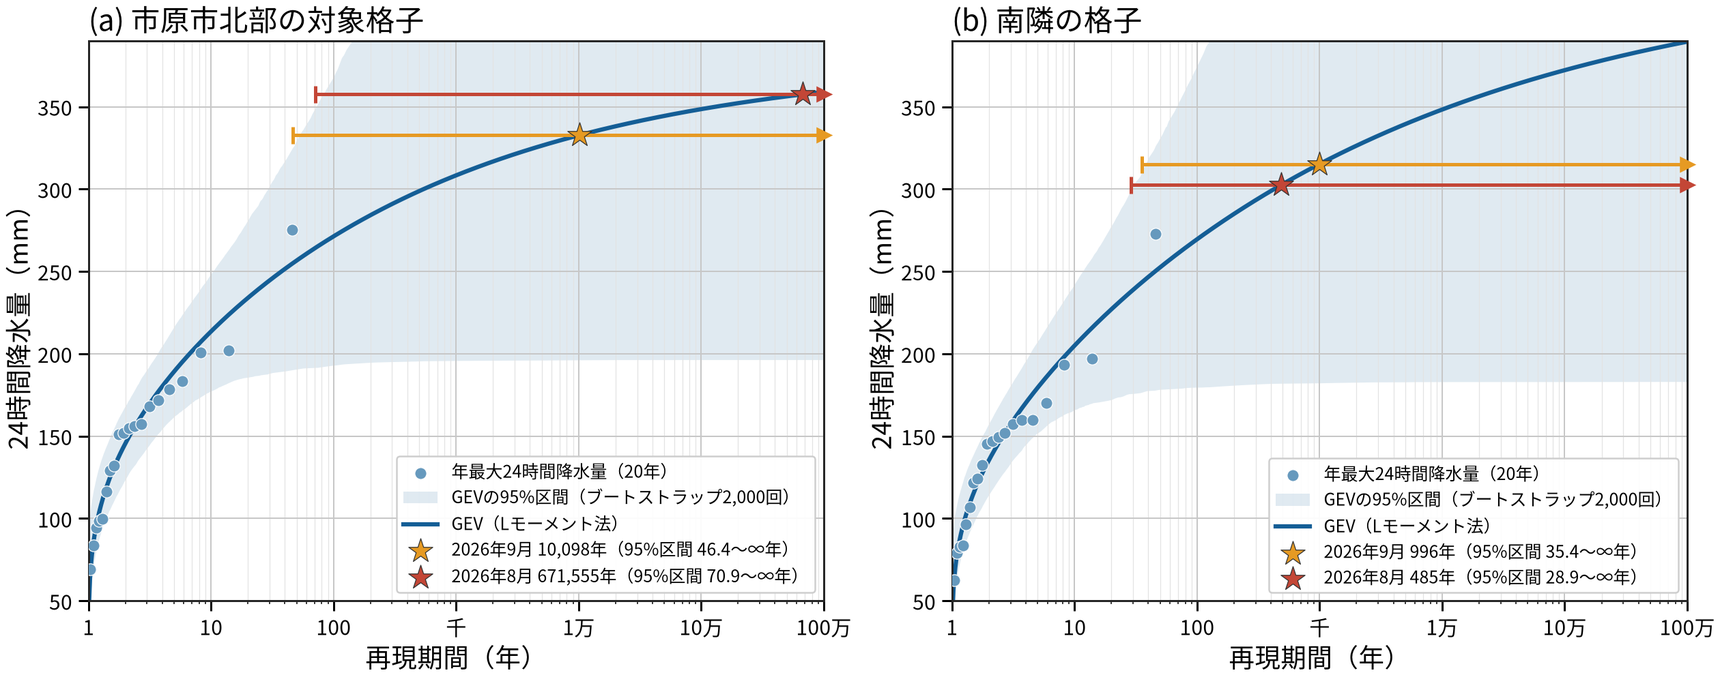
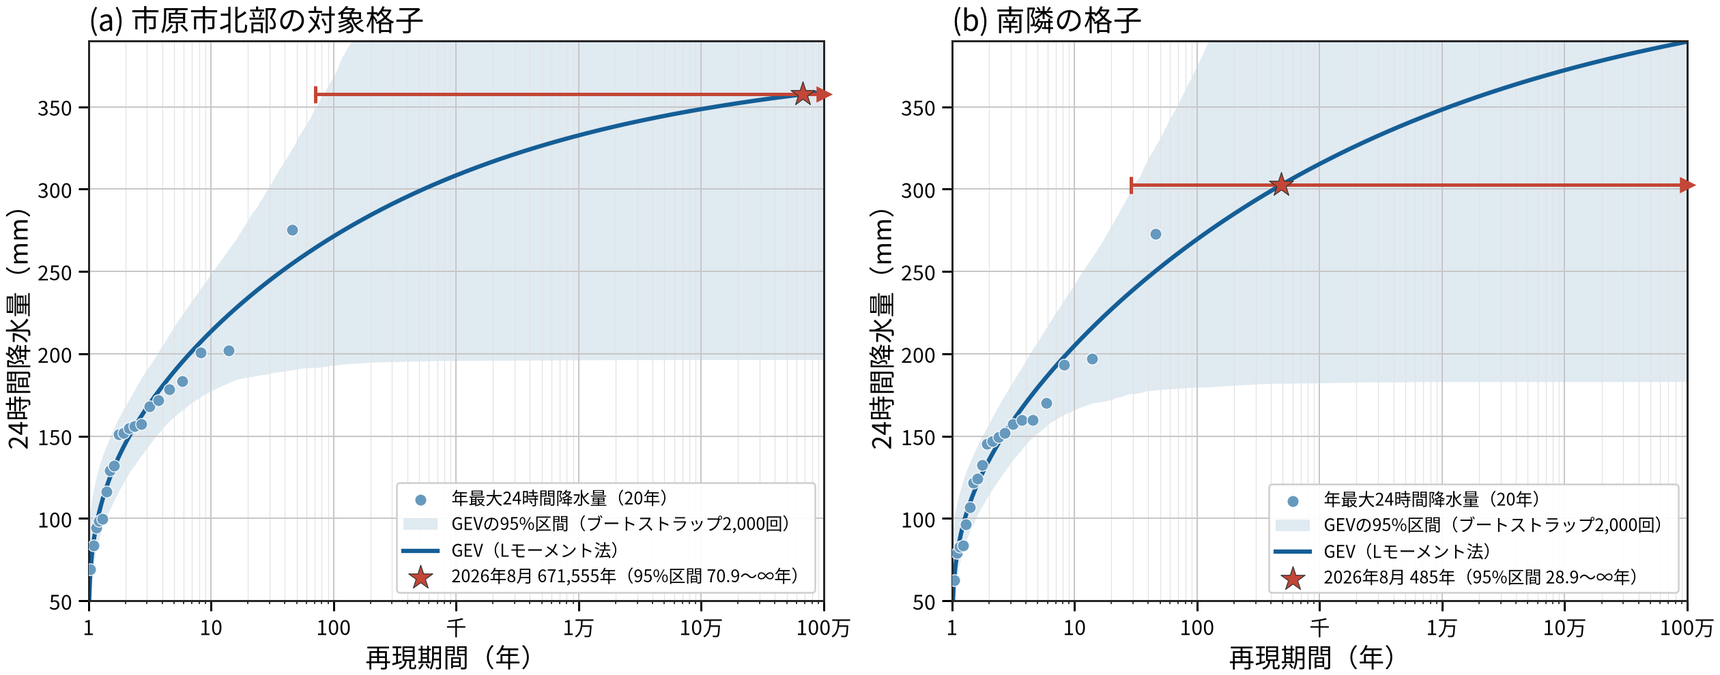
内容を千葉豪雨のみ対象に

diff --git a/src/chiba_heavy_rain/ichihara_gev_diagnostic.py b/src/chiba_heavy_rain/ichihara_gev_diagnostic.py
@@ -63,7 +63,6 @@ def _format_period(value: float) -> str:
 
 def main() -> None:
     august = DATA_DIR / "nusdas_2006_2025_event_2026.nc"
-    september = DATA_DIR / "nusdas_2006_2025_event_20260919_20260922.nc"
     plt.rcParams.update(
         {
             "font.family": "sans-serif",
@@ -83,17 +82,13 @@ def main() -> None:
         strict=True,
     ):
         annual, august_rain, saved_august = _read_cell(august, target_lat)
-        annual_september, september_rain, saved_september = _read_cell(september, target_lat)
-        if not np.array_equal(annual, annual_september) or not np.isfinite(annual).all():
-            raise ValueError("the two events do not share 20 complete annual maxima")
+        if not np.isfinite(annual).all():
+            raise ValueError("the cell does not have 20 complete annual maxima")
         fit = fit_gev(annual)
         august_period = return_period(august_rain, fit)
-        september_period = return_period(september_rain, fit)
         for saved, calculated in (
             (saved_august["shape_xi"], fit.shape_xi),
-            (saved_september["shape_xi"], fit.shape_xi),
             (saved_august["return_period_years"], august_period),
-            (saved_september["return_period_years"], september_period),
         ):
             if not np.isclose(saved, calculated, rtol=1e-4, atol=1e-5):
                 raise ValueError(f"saved fit differs from recalculation: {saved} vs {calculated}")
@@ -149,12 +144,11 @@ def main() -> None:
             [1, 10, 100, 1000, 10000, 100000, 1000000],
             labels=["1", "10", "100", "千", "1万", "10万", "100万"],
         )
-        summaries.append((fit.shape_xi, august_period, september_period))
+        summaries.append((fit.shape_xi, august_period))
         # A negative shape gives a finite GEV upper endpoint.
         upper_bound = fit.location - fit.scale / fit.shape_xi if fit.shape_xi < 0 else np.inf
         x_max = ax.get_xlim()[1]
         for event, month, rain, period, color in (
-            ("2026-09-19_2026-09-22", "9月", september_rain, september_period, "#e69a23"),
             ("2026-08-13_2026-08-15", "8月", august_rain, august_period, "#c34636"),
         ):
             interval = bootstrap_return_period(annual, rain, BOOTSTRAP_SAMPLES, BOOTSTRAP_SEED)
@@ -210,12 +204,12 @@ def main() -> None:
     caption = (
         "# 市原市北部の対象格子と南隣格子におけるGEVフィットの比較\n\n"
         "(a) の格子中心は東経140.10625°、北緯35.5375°。"
-        "(b) は南隣の東経140.10625°、北緯35.52917°で、隣接8格子のうち両事例とも"
-        "再現期間が最長（8月約485年、9月約996年）。青点は2006–2025年の年最大24時間降水量を"
+        "(b) は南隣の東経140.10625°、北緯35.52917°で、隣接8格子のうち"
+        "再現期間が最長（約485年）。青点は2006–2025年の年最大24時間降水量を"
         "昇順に並べ、report.md図1と同じGringortenプロット位置 "
         "`(n+0.12)/(n-rank+0.44)` に置いた値。青線は同じ20値にLモーメント法で当てはめた"
         "定常GEV分布の再現水準、薄青の帯は20値を復元抽出して2,000回再推定したブートストラップの"
-        "95%区間。星は推定に使っていない2026年の事例値で、横線はその再現期間の95%区間"
+        "95%区間。星は推定に使っていない2026年8月13～15日の事例値で、横線はその再現期間の95%区間"
         "（右端の矢印は上限が∞）。"
         "横軸は推定再現期間まで対数軸を延ばした。"
         "GEV形状母数 ξ は (a) −0.183、(b) −0.140。20年の標本から長い再現期間へ外挿した点推定であり、"
@@ -225,11 +219,9 @@ def main() -> None:
     with OUTPUT.with_suffix(".csv").open("w", newline="", encoding="utf-8") as stream:
         writer = csv.DictWriter(stream, fieldnames=list(rows[0]))
         writer.writeheader()
-        writer.writerows(sorted(rows, key=lambda row: (row["cell"] != "target", row["event"])))
-    for title, (xi, august_period, september_period) in zip(
-        ("target", "south neighbor"), summaries, strict=True
-    ):
-        print(f"{title}: xi={xi:.6f}, August={august_period:.1f}, September={september_period:.1f}")
+        writer.writerows(rows)
+    for title, (xi, august_period) in zip(("target", "south neighbor"), summaries, strict=True):
+        print(f"{title}: xi={xi:.6f}, August={august_period:.1f}")
     for row in rows:
         print(
             f"{row['cell']} {row['event']}: upper={row['upper_bound_mm']:.1f} mm, "

diff --git a/results/report2.md b/results/report2.md
@@ -1,10 +1,10 @@
-# 解析雨量を用いた令和8年8月千葉豪雨と令和8年9月の台風第25号による大雨の再現期間の計算
+# 解析雨量を用いた令和8年8月千葉豪雨の再現期間の計算
 
 ## はじめに
 
 [前回の記事](report.md)では、『千葉県で500mm超の記録的大雨「過去ならほぼ起こり得ない規模」の発生確率が温暖化で2倍以上に』で示された再現期間について、アメダスの地上観測を用いて検討した。そこでは、2026年8月13～15日の千葉豪雨の最大24時間降水量について、千葉アメダスでは約300年という再現期間が得られた。一方、元記事の再現期間はアメダスから推定した値より大きい傾向にあり、その一因として日降水量と24時間降水量の時間定義の不整合を挙げた。
 
-ただし、元記事が評価対象としているのは面的な解析雨量であり、前回はオープンデータとして入手できるアメダスを用いていた。今回は、解析雨量を用いて、年最大24時間降水量を求めて格子ごとに極値分布を当てはめ、8月の千葉豪雨の再現期間を面的に計算した。さらに、2026年9月19～22日に台風第25号の影響で千葉県に大雨がもたらされたことから、この事例についても同じ方法で再現期間を計算した。
+ただし、元記事が評価対象としているのは面的な解析雨量であり、前回はオープンデータとして入手できるアメダスを用いていた。今回は、解析雨量を用いて、年最大24時間降水量を求めて格子ごとに極値分布を当てはめ、8月の千葉豪雨の再現期間を面的に計算した。
 
 ## データと手法
 
@@ -14,13 +14,13 @@
 
 2006年1月～2025年12月の20年間について、各格子で連続する24時間分の1時間降水量を1時間ずつずらしながら積算し、年最大24時間降水量を求めた。24時間の値は、連続する24個の1時間降水量がすべてそろう場合にのみ計算した。2006年は1月1日から2月中旬を中心に計673時間分のデータが得られなかったが、有効な24時間の値が得られる期間から年最大値を求めた。その他の年に得られなかったデータは合計31時間である。
 
-事例の最大24時間降水量は、8月の千葉豪雨では2026年8月13日00時～15日24時、9月の大雨では2026年9月19日00時～22日23時の期間に完全に含まれる24時間の最大値とした。
+事例の最大24時間降水量は、2026年8月13日00時～15日24時の期間に完全に含まれる24時間の最大値とした。
 
-元記事で使われた速報版解析雨量は10分ごとに作成されるため、24時間の区切りを10分刻みで選べる。本解析では1時間刻みの解析雨量を用いたので、事例の最大24時間降水量は元記事の値より小さくなることがある。たとえば8月の事例で千葉市内の格子の最大値は560.9 mmで、元記事の「千葉市緑区から市原市東部」の574.2 mmより小さい。
+元記事で使われた速報版解析雨量は10分ごとに作成されるため、24時間の区切りを10分刻みで選べる。本解析では1時間刻みの解析雨量を用いたので、事例の最大24時間降水量は元記事の値より小さくなることがある。たとえば千葉市内の格子の最大値は560.9 mmで、元記事の「千葉市緑区から市原市東部」の574.2 mmより小さい。
 
 ### 再現期間の計算
 
-前回の記事と同様に、各格子の年最大24時間降水量に定常GEV分布を当てはめ、Lモーメント法で母数を推定した。推定には20年分の年最大値がすべてそろう格子のみを用いた。2026年の2事例は推定に含めず、事例の最大24時間降水量 $x$ について再現期間を $T = 1 / (1 - F(x))$ として計算した。事例の雨量が推定されたGEV分布の上限を超える場合は、再現期間を∞とした。
+前回の記事と同様に、各格子の年最大24時間降水量に定常GEV分布を当てはめ、Lモーメント法で母数を推定した。推定には20年分の年最大値がすべてそろう格子のみを用いた。2026年の事例は推定に含めず、事例の最大24時間降水量 $x$ について再現期間を $T = 1 / (1 - F(x))$ として計算した。事例の雨量が推定されたGEV分布の上限を超える場合は、再現期間を∞とした。
 
 ### アメダスを用いた解析期間の比較
 
@@ -32,7 +32,7 @@
 
 この解析や文章執筆はCodexとClaudeを使用して行った。これは[GitHubリポジトリ](https://github.com/wm-ytakano/chiba-heavy-rain)から参照できる。
 
-## 令和8年8月千葉豪雨
+## 結果
 
 ### 最大24時間降水量と再現期間の分布
 
@@ -48,16 +48,16 @@
 
 **図1　2026年8月13～15日の解析雨量による (a) 最大24時間降水量と (b) 再現期間。** 再現期間は、2006～2025年の年最大24時間降水量に格子ごとに当てはめた定常GEV分布から求めた。(a) の区分境界は1、10、20、50、100、200、300、400 mm。(b) の区分境界は10、20、50、100、200、500、1,000、2,000、5,000、10,000年で、10年未満と推定できない格子は白で示す。
 
-### 市区町村別の最大値
+### 市町村別の最大値
 
-次に、気象警報等に用いられる市区町村等の予報区域別に、格子の最大24時間降水量を並べると、表1のようになった。
+次に、気象警報等に用いられる市町村等の予報区域別に、格子の最大24時間降水量を並べると、表1のようになった。
 
 元記事では、10分刻みの速報版解析雨量による24時間降水量として、「千葉市緑区から市原市東部」で574.2 mmであり、頻度にすると1万年を大きく超える規模としている。
 一方、この解析の最大値では千葉市で560.9 mm、市原市で553.4 mmであり、対応する再現期間はそれぞれ144年と201年であった。
 
-**表1　2026年8月13～15日の市区町村別の最大24時間降水量（上位10市区町村）。** 各市区町村の境界内に中心がある格子のうち、最大24時間降水量が最大の格子について、その格子の再現期間を併記した。
+**表1　2026年8月13～15日の市町村別の最大24時間降水量（上位10市町村）。** 各市町村の境界内に中心がある格子のうち、最大24時間降水量が最大の格子について、その格子の再現期間を併記した。
 
-| 順位 | 市区町村 | 最大24時間降水量（mm） | 再現期間 |
+| 順位 | 市町村 | 最大24時間降水量（mm） | 再現期間 |
 |---:|---|---:|---:|
 | 1 | 千葉市 | 560.9 | 144年 |
 | 2 | 市原市 | 553.4 | 201年 |
@@ -71,14 +71,14 @@
 | 10 | 長柄町 | 362.2 | 27.7年 |
 
 
-市区町村別の最大再現期間と対応する降水量を並べると、表2のようになった。
+市町村別の最大再現期間と対応する降水量を並べると、表2のようになった。
 元記事では、「千葉市緑区から市原市東部」が1万年を大きく超えるとしており、本解析でも市原市において1万年を大きく超える値が確認された。
 
 一方、元記事の「東金・大網白里付近の373.0mmは約1,182年に1度」に対して、本解析の降水量は東金市で400.4 mm、大網白里市で438.7 mmと多い一方、再現期間はいずれも50年程度と元記事と比べてかなり小さい。
 
-**表2　2026年8月13～15日の市区町村別の最大再現期間（上位10市区町村）。** 各市区町村の境界内の格子のうち再現期間が最大の格子について、その格子の最大24時間降水量を併記した。
+**表2　2026年8月13～15日の市町村別の最大再現期間（上位10市町村）。** 各市町村の境界内の格子のうち再現期間が最大の格子について、その格子の最大24時間降水量を併記した。
 
-| 順位 | 市区町村 | 最大24時間降水量（mm） | 再現期間 |
+| 順位 | 市町村 | 最大24時間降水量（mm） | 再現期間 |
 |---:|---|---:|---:|
 | 1 | 市原市 | 357.5 | 672,000年 |
 | 2 | 千葉市 | 370.9 | 791年 |
@@ -97,15 +97,15 @@
 隣接する8格子の再現期間は66～486年で、この格子を除くと、千葉県内の再現期間の最大は千葉市内の791年となった。
 この格子と、隣接8格子のうち再現期間が最も長かった南隣の格子（北緯35.5292°）について、年最大24時間降水量とGEV分布を図2に示す。
 
-図2(a)の格子では、8月の357.5 mmと9月の332.7 mmはいずれも、2006～2025年の年最大24時間降水量の最大値275.1 mmを大きく上回った。このように過去20年に経験のない大雨を評価する場合、再現期間は観測された範囲の外側、すなわちGEV分布の裾の形によって決まる。この格子では形状母数 $\xi$ が−0.183と負で、推定されたGEV分布には上限（379.0 mm）がある。8月の雨量はこの上限に近いため、再現期間が約67万年と非常に長く算出された。
+図2(a)の格子では、今回の357.5 mmは、2006～2025年の年最大24時間降水量の最大値275.1 mmを大きく上回った。このように過去20年に経験のない大雨を評価する場合、再現期間は観測された範囲の外側、すなわちGEV分布の裾の形によって決まる。この格子では形状母数 $\xi$ が−0.183と負で、推定されたGEV分布には上限（379.0 mm）がある。今回の雨量はこの上限に近いため、再現期間が約67万年と非常に長く算出された。
 
-ただし、20年分の年最大値から推定したGEV分布には大きな不確実性がある。20個の年最大値を復元抽出して再推定するブートストラップ法（2,000回）で95%区間を求めると、図2(a)の格子の8月の再現期間の下限は70.9年だった。また、リサンプルの約半数では8月の雨量が推定された分布の上限を超え、再現期間は∞となった。
+ただし、20年分の年最大値から推定したGEV分布には大きな不確実性がある。20個の年最大値を復元抽出して再推定するブートストラップ法（2,000回）で95%区間を求めると、図2(a)の格子の再現期間の下限は70.9年だった。また、リサンプルの約半数では今回の雨量が推定された分布の上限を超え、再現期間は∞となった。
 
-さらに、約1 km南の図2(b)の格子では、過去20年の最大値は272.8 mmと図2(a)とほぼ同じだが、形状母数は−0.140で、8月の302.5 mmは485年、9月の315.2 mmは996年に対応した。9月の雨量の差は17.5 mmにすぎないが、再現期間は約10倍異なる。このように、1格子隣でも再現期間の点推定値は大きく変わる。
+さらに、約1 km南の図2(b)の格子では、過去20年の最大値は272.8 mmと図2(a)とほぼ同じだが、形状母数は−0.140で、今回の302.5 mmは485年に対応した。図2(a)と比べて今回の雨量は55.0 mm少なく、再現期間は3桁小さい。このように、1格子隣でも再現期間の点推定値は大きく変わる。
 
 ![市原市北部の格子と南隣の格子におけるGEV分布の比較](ichihara_gev_fit_diagnostic.png)
 
-**図2　市原市北部の (a) 再現期間が1万年を超えた格子と (b) その南隣の格子における年最大24時間降水量とGEV分布。** 青点は2006～2025年の年最大24時間降水量で、Gringortenのプロット位置 $T = (n + 0.12) / (n - i + 0.44)$（$n = 20$、$i$ は昇順の順位）に置いた。青線はLモーメント法で当てはめた定常GEV分布、薄青の帯は20個の年最大値を復元抽出して2,000回再推定したブートストラップ法による95%区間、赤い星とオレンジの星は推定に含めていない2026年8月と9月の事例の最大24時間降水量と再現期間を示す。星から延びる横線は事例の再現期間の95%区間で、右端の矢印は上限が∞であることを示す。
+**図2　市原市北部の (a) 再現期間が1万年を超えた格子と (b) その南隣の格子における年最大24時間降水量とGEV分布。** 青点は2006～2025年の年最大24時間降水量で、Gringortenのプロット位置 $T = (n + 0.12) / (n - i + 0.44)$（$n = 20$、$i$ は昇順の順位）に置いた。青線はLモーメント法で当てはめた定常GEV分布、薄青の帯は20個の年最大値を復元抽出して2,000回再推定したブートストラップ法による95%区間、赤い星は推定に含めていない2026年8月13～15日の最大24時間降水量と再現期間を示す。星から延びる横線はその再現期間の95%区間で、右端の矢印は上限が∞であることを示す。
 
 ### 解析期間の違いが再現期間に与える影響
 
@@ -133,77 +133,3 @@
 まず、アメダスで解析期間の違いを比べる。表3の上位5地点ではいずれも、2006～2025年に基づく再現期間が1976～2014年に基づく値より短かった。特に千葉では、1976～2014年の299年に対して2006～2025年では119年と、約4割になった。佐倉では39.4年から22.6年、茂原では16.5年から11.0年となった。再現期間が数年以下の地点では、両者の差は小さかった。
 
 次に、同じ2006～2025年に基づく再現期間を、アメダスと解析雨量で比べる。解析雨量は約1 km格子の面的な値であり、地点で観測するアメダスとはデータの性質が異なるため、降水量そのものではなく、それぞれのデータの過去の年最大値に対する再現期間を比較する。千葉では、アメダスで119年、解析雨量で112年と近い値になった。茂原（11.0年と10.0年）、牛久（8.18年と5.54年）、館山（6.31年と6.74年）でも、両者の差は数年以内だった。一方、佐倉では、アメダスの22.6年に対して解析雨量では33.3年と長かった。
-
-## 令和8年9月の台風第25号による大雨
-
-### 最大24時間降水量と再現期間の分布
-
-図3に、2026年9月19～22日の解析雨量による最大24時間降水量と、その再現期間を示す。
-
-最大24時間降水量は、千葉県の北西部から南部にかけての広い範囲で300 mmを超えた。
-一方、400 mmを超える雨は8月の千葉豪雨に比べると狭かった。
-
-再現期間は、千葉県の北東部を除く広い範囲で20年を超え、東京湾沿岸を中心に50～200年の格子が分布した。再現期間が100年を超えた格子は、図の範囲内で625格子だった。千葉県内で再現期間が1万年を超えた格子は、8月の千葉豪雨と同じ市原市北部の1格子のみであった。
-
-![2026年9月19～22日の解析雨量による最大24時間降水量と再現期間](return_period_chiba_20260919_20260922.png)
-
-**図3　2026年9月19～22日の解析雨量による (a) 最大24時間降水量と (b) 再現期間。** 描画方法は図1と同じ。
-
-### 市区町村別の最大値
-
-市区町村別に格子の最大24時間降水量を並べると、表4のようになった。
-
-**表4　2026年9月19～22日の市区町村別の最大24時間降水量（上位10市区町村）。** 集計方法は表1と同じ。
-
-| 順位 | 市区町村 | 最大24時間降水量（mm） | 再現期間 |
-|---:|---|---:|---:|
-| 1 | 長柄町 | 449.4 | 58.9年 |
-| 2 | 市原市 | 442.0 | 86.9年 |
-| 3 | 君津市 | 434.5 | 50.9年 |
-| 4 | 千葉市 | 426.2 | 38.4年 |
-| 5 | 鋸南町 | 397.0 | 64.7年 |
-| 6 | 長南町 | 395.7 | 29.6年 |
-| 7 | 茂原市 | 393.7 | 38.0年 |
-| 8 | 大網白里市 | 393.7 | 40.4年 |
-| 9 | 大多喜町 | 389.2 | 47.3年 |
-| 10 | 富津市 | 378.0 | 62.9年 |
-
-市区町村別に格子の最大再現期間を並べると、表5のようになった。
-
-**表5　2026年9月19～22日の市区町村別の最大再現期間（上位10市区町村）。** 集計方法は表2と同じ。
-
-| 順位 | 市区町村 | 最大24時間降水量（mm） | 再現期間 |
-|---:|---|---:|---:|
-| 1 | 市原市 | 332.7 | 10,100年 |
-| 2 | 館山市 | 269.7 | 448年 |
-| 3 | 千葉市 | 333.9 | 322年 |
-| 4 | 柏市 | 348.7 | 131年 |
-| 5 | 木更津市 | 357.5 | 121年 |
-| 6 | 船橋市 | 353.5 | 103年 |
-| 7 | 南房総市 | 301.2 | 102年 |
-| 8 | 習志野市 | 335.2 | 99.5年 |
-| 9 | 八千代市 | 329.7 | 95.6年 |
-| 10 | 君津市 | 358.0 | 92.8年 |
-
-### 解析期間の違いが再現期間に与える影響
-
-8月の事例と同様に、アメダスを用いて解析期間の違いが再現期間に与える影響を評価し、あわせて同じ2006～2025年について解析雨量から推定した再現期間と比較した。結果を表6に示す。
-
-**表6　2026年9月19～22日のアメダスと解析雨量の最大24時間降水量と再現期間の比較。** 表の構成は表3と同じ。坂畑・大多喜・鴨川のアメダスの値は、気象庁の表で資料不足値とされた値をそのまま用いた。
-
-| 地点 | アメダス<br>（mm） | アメダスGEV<br> 1976～2014年 | アメダスGEV<br> 2006～2025年 | 解析雨量<br>（mm） | 解析雨量GEV<br> 2006～2025年 |
-|---|---:|---:|---:|---:|---:|
-| 茂原 | 369.5 | 348年 | 38.1年 | 380.2 | 36.1年 |
-| 千葉 | 352.5 | 222年 | 97.8年 | 368.2 | 82.6年 |
-| 牛久 | 392.5 | 195年 | 132年 | 406.5 | 122年 |
-| 佐倉 | 322.0 | 97.2年 | 39.2年 | 341.7 | 36.3年 |
-| 館山 | 331.0 | 61.3年 | 48.6年 | 338.5 | 50.9年 |
-| 坂畑 | 377.5 | 42.6年 | 36.9年 | 434.5 | 50.9年 |
-| 大多喜 | 363.0 | 35.9年 | 31.9年 | 389.2 | 33.7年 |
-| 鴨川 | 272.5 | 22.1年 | 14.7年 | 315.0 | 21.2年 |
-| 鋸南 | 331.5 | 20.8年 | 40.2年 | 362.0 | 45.8年 |
-| 横芝光 | 231.0 | 19.3年 | 13.2年 | 238.5 | 14.3年 |
-
-まず、アメダスで解析期間の違いを比べる。表6の10地点のうち鋸南を除く9地点で、2006～2025年に基づく再現期間が1976～2014年に基づく値より短かった。特に茂原では、1976～2014年の348年に対して2006～2025年では38.1年と、約1割になった。千葉では222年から97.8年、佐倉では97.2年から39.2年と、いずれも約4割になった。牛久では195年から132年となった。
-
-次に、同じ2006～2025年に基づく再現期間を、アメダスと解析雨量で比べる。牛久ではアメダスで132年、解析雨量で122年、千葉ではそれぞれ97.8年と82.6年だった。茂原（38.1年と36.1年）、佐倉（39.2年と36.3年）、館山（48.6年と50.9年）を含め、上位5地点では両者の差は2割以内だった。

diff --git a/results/ichihara_gev_fit_diagnostic.md b/results/ichihara_gev_fit_diagnostic.md
@@ -1,3 +1,3 @@
 # 市原市北部の対象格子と南隣格子におけるGEVフィットの比較
 
-(a) の格子中心は東経140.10625°、北緯35.5375°。(b) は南隣の東経140.10625°、北緯35.52917°で、隣接8格子のうち両事例とも再現期間が最長（8月約485年、9月約996年）。青点は2006–2025年の年最大24時間降水量を昇順に並べ、report.md図1と同じGringortenプロット位置 `(n+0.12)/(n-rank+0.44)` に置いた値。青線は同じ20値にLモーメント法で当てはめた定常GEV分布の再現水準、薄青の帯は20値を復元抽出して2,000回再推定したブートストラップの95%区間。星は推定に使っていない2026年の事例値で、横線はその再現期間の95%区間（右端の矢印は上限が∞）。横軸は推定再現期間まで対数軸を延ばした。GEV形状母数 ξ は (a) −0.183、(b) −0.140。20年の標本から長い再現期間へ外挿した点推定であり、図だけで適合度検定の結論は出せない。
+(a) の格子中心は東経140.10625°、北緯35.5375°。(b) は南隣の東経140.10625°、北緯35.52917°で、隣接8格子のうち再現期間が最長（約485年）。青点は2006–2025年の年最大24時間降水量を昇順に並べ、report.md図1と同じGringortenプロット位置 `(n+0.12)/(n-rank+0.44)` に置いた値。青線は同じ20値にLモーメント法で当てはめた定常GEV分布の再現水準、薄青の帯は20値を復元抽出して2,000回再推定したブートストラップの95%区間。星は推定に使っていない2026年8月13～15日の事例値で、横線はその再現期間の95%区間（右端の矢印は上限が∞）。横軸は推定再現期間まで対数軸を延ばした。GEV形状母数 ξ は (a) −0.183、(b) −0.140。20年の標本から長い再現期間へ外挿した点推定であり、図だけで適合度検定の結論は出せない。
